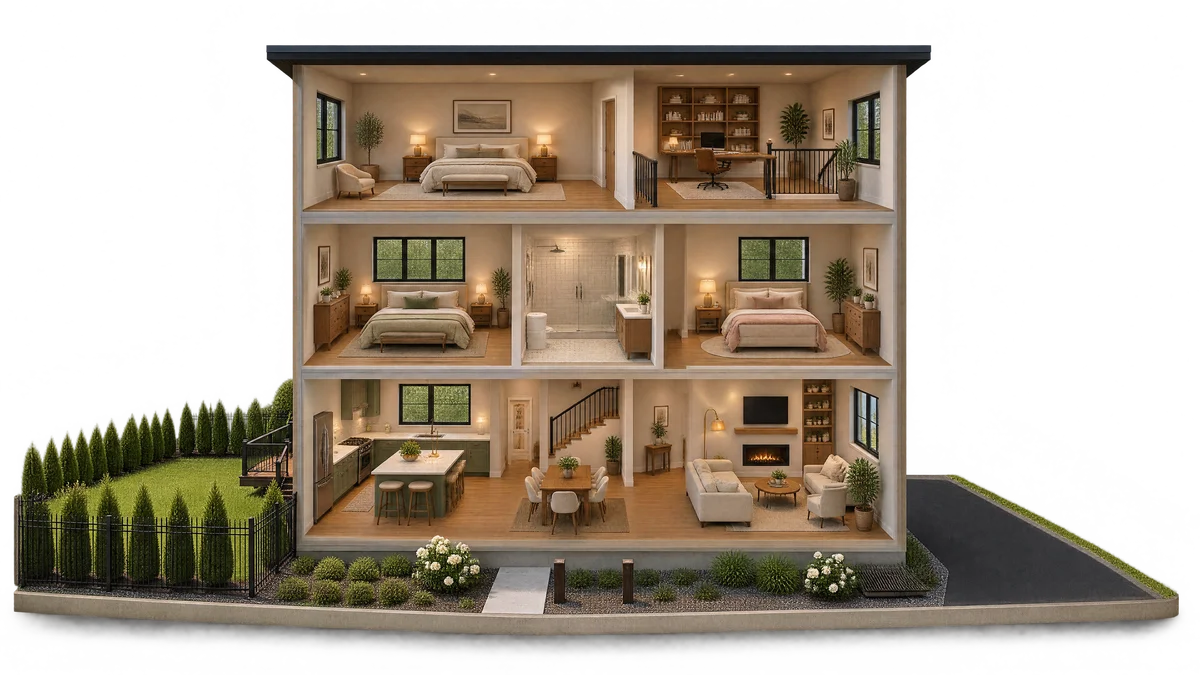
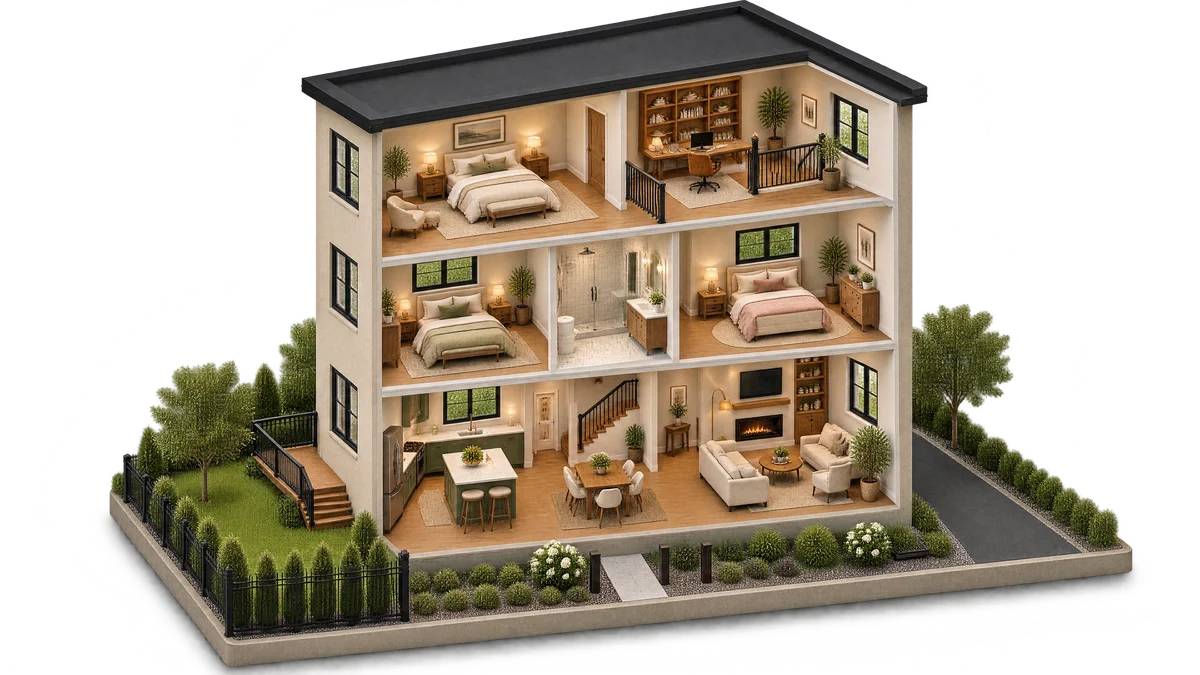
The hero copies the reference in full: open, disassemble, reassemble
The house is re-rendered at the video's aerial three-quarter angle,
in three matched 4K states on transparent: closed, cutaway, and
exploded with the floors floating apart. The 330svh runway scrubs
the whole sequence: the facade dissolves, the room pins arrive,
the floors pull apart and hold as a floating diagram, reassemble,
and the finished model hands off to What We Build, drifting up to
hold centre while the headline is away. Tap-any-room still glides
into close-ups between phases.

diff --git a/js/hero.js b/js/hero.js
@@ -12,7 +12,9 @@
   if (!hero) return;
   const copy = hero.querySelector(".heroo__copy");
   const stage = hero.querySelector(".heroo__stagewrap");
-  const house = hero.querySelector(".heroo__house:not(.heroo__house--closed)");
+  const house = hero.querySelector(
+    ".heroo__house:not(.heroo__house--closed):not(.heroo__house--exploded)",
+  );
   const cap = document.getElementById("herooCap");
   const pins = [...hero.querySelectorAll(".heroo__pin")];
   const reduce = window.matchMedia("(prefers-reduced-motion: reduce)");
@@ -53,35 +55,56 @@
 
   if (reduce.matches) return; // everything stays visible and still
 
-  // ---- scroll: the house opens, then hands off ----
+  // ---- scroll: close, open, disassemble, reassemble, hand off ----
   const closed = hero.querySelector(".heroo__house--closed");
+  const exploded = hero.querySelector(".heroo__house--exploded");
+  const seg = (p, a, b) => smooth(clamp01((p - a) / (b - a)));
   function paint() {
     const r = hero.getBoundingClientRect();
     const span = r.height - vpH();
     const p = span > 0 ? clamp01(-r.top / span) : 0;
 
-    // phase one: scrolling dissolves the facade into the open house
-    const openAmt = smooth(clamp01(p / 0.5));
+    // 1) the facade dissolves: the house opens
+    const open = seg(p, 0, 0.26);
     if (closed) {
-      closed.style.opacity = (1 - openAmt).toFixed(3);
-      closed.style.transform = "scale(" + (1 + 0.07 * openAmt).toFixed(4) + ")";
+      closed.style.opacity = (1 - open).toFixed(3);
+      closed.style.transform = "scale(" + (1 + 0.06 * open).toFixed(4) + ")";
     }
 
-    // the room pins arrive once the house is open, one after another
+    // 2) the room pins arrive one by one
     pins.forEach((pin, k) => {
-      const vis = zoomed ? pin === zoomed : p >= 0.5 + k * 0.07;
+      const vis = zoomed ? pin === zoomed : p >= 0.26 + k * 0.035 && p < 0.44;
       pin.style.opacity = zoomed ? "" : vis ? 1 : 0;
       pin.style.pointerEvents = vis || zoomed ? "" : "none";
     });
 
-    // phase two: the finished house hands off to the next section
-    const hand = smooth(clamp01((p - 0.62) / 0.38));
-    if (hand > 0.3 && zoomed) setZoom(null);
-    copy.style.opacity = Math.max(0, 1 - hand * 1.9).toFixed(3);
+    // 3) the house disassembles into floating floors, holds, and
+    //    4) reassembles on the way out
+    const apart = seg(p, 0.46, 0.64) * (1 - seg(p, 0.78, 0.92));
+    if (exploded && !zoomed) {
+      exploded.style.opacity = apart.toFixed(3);
+      exploded.style.transform =
+        "scale(" + (0.965 + 0.035 * apart).toFixed(4) + ")";
+      house.style.opacity = (1 - apart * 0.96).toFixed(3);
+    } else if (exploded) {
+      exploded.style.opacity = 0;
+      house.style.opacity = 1;
+    }
+
+    // 5) the reassembled house hands off to What We Build
+    const hand = seg(p, 0.86, 1);
+    if (hand > 0.2 && zoomed) setZoom(null);
+    copy.style.opacity = Math.max(
+      0,
+      1 - Math.max(seg(p, 0.42, 0.6) * 0.65, hand) * 1.6,
+    ).toFixed(3);
     copy.style.transform = "translateY(" + (-hand * 48).toFixed(1) + "px)";
+    // while the copy is away for the disassembly, the model drifts
+    // up to hold the centre of the screen
+    const lift = seg(p, 0.42, 0.6) * (1 - hand) * 7;
     stage.style.transform =
       "translateY(" +
-      (hand * 10).toFixed(2) +
+      (hand * 10 - lift).toFixed(2) +
       "svh) scale(" +
       (1 - 0.2 * hand).toFixed(4) +
       ")";

diff --git a/index.html b/index.html
@@ -33,8 +33,8 @@
       href="https://fonts.googleapis.com/css2?family=Archivo:wght@600;700;800&family=Inter:wght@400;500;600;700&display=swap"
       rel="stylesheet"
     />
-    <link rel="stylesheet" href="css/site.css?v=open3" />
-    <link rel="stylesheet" href="css/upgrade.css?v=open3" />
+    <link rel="stylesheet" href="css/site.css?v=dis1" />
+    <link rel="stylesheet" href="css/upgrade.css?v=dis1" />
     <script type="application/ld+json">
       {
         "@context": "https://schema.org",
@@ -161,6 +161,19 @@
             </div>
           </div>
           <div class="heroo__stagewrap">
+            <img
+              class="heroo__house heroo__house--exploded"
+              src="assets/hero-exploded.webp"
+              srcset="
+                assets/hero-exploded-small.webp 1200w,
+                assets/hero-exploded.webp       2400w
+              "
+              sizes="(max-width: 900px) 100vw, 72vw"
+              alt=""
+              aria-hidden="true"
+              decoding="async"
+              loading="lazy"
+            />
             <img
               class="heroo__house heroo__house--closed"
               src="assets/hero-closed.webp"
@@ -1040,11 +1053,11 @@
       integrity="sha256-20nQCchB9co0qIjJZRGuk2/Z9VM+kNiyxNV1lvTlZBo="
       crossorigin=""
     ></script>
-    <script src="js/hero.js?v=open3" defer></script>
-    <script src="js/main.js?v=open3" defer></script>
-    <script src="js/process.js?v=open3" defer></script>
-    <script src="js/transform.js?v=open3" defer></script>
-    <script src="js/upgrade.js?v=open3" defer></script>
+    <script src="js/hero.js?v=dis1" defer></script>
+    <script src="js/main.js?v=dis1" defer></script>
+    <script src="js/process.js?v=dis1" defer></script>
+    <script src="js/transform.js?v=dis1" defer></script>
+    <script src="js/upgrade.js?v=dis1" defer></script>
     <script type="application/ld+json">
       {
         "@context": "https://schema.org",
@@ -1117,6 +1130,6 @@
         ]
       }
     </script>
-    <script src="js/support.js?v=open3" defer></script>
+    <script src="js/support.js?v=dis1" defer></script>
   </body>
 </html>

diff --git a/css/site.css b/css/site.css
@@ -3563,7 +3563,7 @@ section[id],
 .hero--open {
   /* a short runway: the sticky stage hands the house off to the
      next section as you scroll */
-  height: 250svh;
+  height: 330svh;
   background: var(--paper);
 }
 
@@ -3695,11 +3695,21 @@ section[id],
   will-change: transform;
 }
 
-/* the facade: stacked over the open house, dissolved by scroll */
+/* the stacked states: facade on top, exploded beneath it, both
+   driven by scroll */
 .heroo__house--closed {
   position: absolute;
   inset: 0;
+  z-index: 3;
+  transition: none;
+  pointer-events: none;
+}
+
+.heroo__house--exploded {
+  position: absolute;
+  inset: 0;
   z-index: 2;
+  opacity: 0;
   transition: none;
   pointer-events: none;
 }

diff --git a/contact.html b/contact.html
@@ -16,7 +16,7 @@
       href="https://fonts.googleapis.com/css2?family=Archivo:wght@600;700;800&family=Inter:wght@400;500;600;700&display=swap"
       rel="stylesheet"
     />
-    <link rel="stylesheet" href="css/site.css?v=open3" />
+    <link rel="stylesheet" href="css/site.css?v=dis1" />
   </head>
   <body style="background: var(--paper)">
     <nav class="nav nav--solid" aria-label="Primary">
@@ -147,6 +147,6 @@
 
     <script src="js/quote-data.js?v=a449cf9b"></script>
     <script src="js/quote.js?v=742b7f01" defer></script>
-    <script src="js/support.js?v=open3" defer></script>
+    <script src="js/support.js?v=dis1" defer></script>
   </body>
 </html>
